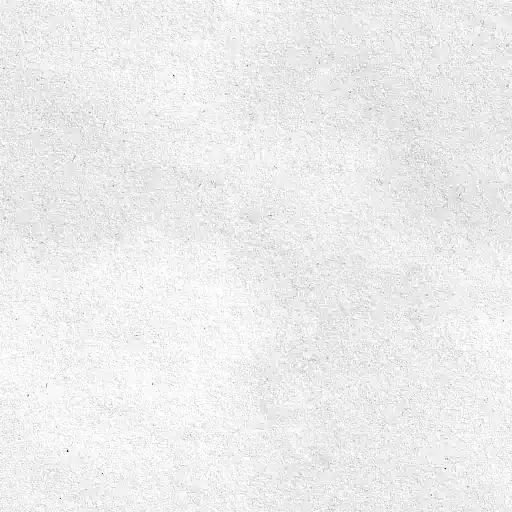
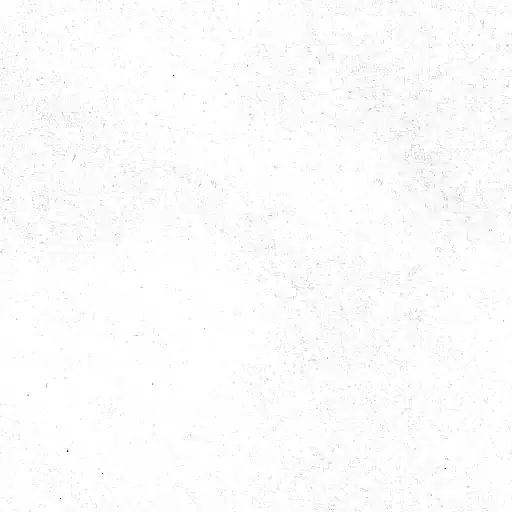
Some improvements and fixes.

diff --git a/styles.css b/styles.css
@@ -60,6 +60,7 @@
 
   /* --- TEXTURE --- */
   --texture-img: url("./images/paper.webp");
+  --texture-img-2: url("./images/paper2.webp");
   --texture-opacity: 1;
   --texture-size: 512px;
 
@@ -250,6 +251,8 @@ input[type="submit"]:hover {
   padding: 0 1rem;
   height: 100%;
   background-color: var(--color-dark-charcoal);
+  z-index: 6;
+  box-shadow: var(--box-shadow-default);
 }
 
 .header .logo {
@@ -464,6 +467,9 @@ input[type="submit"]:hover {
   background-color: var(--color-taupe);
   box-shadow: var(--box-shadow-default);
   z-index: 1;
+  min-height: 40em;
+  align-content: center;
+
 }
 
 .promo-banner {
@@ -474,6 +480,7 @@ input[type="submit"]:hover {
   box-shadow: var(--box-shadow-default);
 
   width: 95%;
+  margin-top: 2em;
 }
 
 .promo-banner__title {
@@ -645,6 +652,8 @@ input[type="submit"]:hover {
   background-attachment: fixed;
   color: var(--color-white);
   text-shadow: 0 0 2em rgba(255, 255, 255, 0.7);
+  box-shadow: var(--box-shadow-default);
+  z-index: 4;
 }
 
 .hero-wrapper {
@@ -676,9 +685,6 @@ input[type="submit"]:hover {
   background-color: var(--color-olive-green);
   box-shadow: var(--box-shadow-default);
   z-index: 3;
-  margin-top: -2em;
-  margin-bottom: -2em;
-  box-shadow: var(--box-shadow-default);
 }
 
 #about h2,
@@ -801,7 +807,7 @@ main img {
 }
 
 #collection {
-  min-height: 104svh;
+  min-height: 100svh;
   align-content: center;
   box-shadow: var(--box-shadow-default);
   z-index: 2;
@@ -915,13 +921,15 @@ footer {
 /* ==================================================================
    EFFECTS & USABILITY
    ================================================================== */
-.with-texture {
+.with-texture,
+.with-texture-2 {
   position: relative;
   isolation: unset;
   overflow: visible;
 }
 
-.with-texture::before {
+.with-texture::before,
+.with-texture-2::before {
   content: "";
   position: absolute;
   top: 0;
@@ -929,7 +937,7 @@ footer {
   transform: translateX(-50%);
   width: 100%;
   height: 100%;
-  background-image: var(--texture-img);
+
   background-repeat: repeat;
   background-size: var(--texture-size) var(--texture-size);
   mix-blend-mode: multiply;
@@ -938,8 +946,18 @@ footer {
   z-index: 0;
 }
 
+.with-texture::before {
+  background-image: var(--texture-img);
+}
+
+.with-texture-2::before {
+  background-image: var(--texture-img-2);
+}
+
 .with-texture>*,
-.with-texture .sisalto {
+.with-texture-2>*,
+.with-texture .sisalto,
+.with-texture-2 .sisalto {
   position: relative;
   z-index: 1;
 }
@@ -996,6 +1014,7 @@ footer {
   justify-content: space-between;
   gap: 2rem;
   margin-bottom: var(--section-padding-vertical);
+  margin-top: var(--section-padding-vertical);
 }
 
 .footer-column {
@@ -1154,9 +1173,23 @@ footer {
 #clients {
   background-color: var(--color-dark-charcoal);
   box-shadow: var(--box-shadow-default);
+  height: 100svh;
+  align-content: center;
+  z-index: -1;
 }
 
-#clients h2, #clients p {
-    color: white; 
-  
+#clients h2,
+#clients p {
+  color: white;
+
+}
+
+#contact {
+  background-color: var(--color-light-beige);
+  z-index: -2;
+  color: var(--color-dark-charcoal);
+}
+
+#contact h2 {
+  color: var(--color-dark-charcoal);
 }

diff --git a/index.html b/index.html
@@ -23,7 +23,7 @@
   </section>
 
   <!-- ===================== ABOUT / BRAND STORY ===================== -->
-  <section class="with-texture" id="about">
+  <section class="with-texture-2 cut-bottom" id="about">
     <h2>What is Nest &amp; Living?</h2>
     <p>
       Welcome to Nest &amp; Living, your premier destination for luxurious yet accessible bedroom furniture. Our
@@ -53,7 +53,7 @@
     <div class="with-texture" id="collection-content"></div>
   </section>
 
-  <section class="with-texture" id="promo">
+  <section class="with-texture-2" id="promo">
     <div class="promo-banner with-texture">
       <h2 class="promo-banner__title">NOW IN STORES</h2>
       <h3 class="promo-banner__subtitle with-texture">Special prices!*</h3>
@@ -102,7 +102,7 @@
 
 
   <!-- ===================== CLIENTS / TESTIMONIALS ===================== -->
-  <section class="with-texture" id="clients">
+  <section class="with-texture cut-bottom" id="clients">
     <h2>Clients</h2>
     <p>
       At Nest &amp; Living, our clients are at the heart of everything we do. We believe that quality bedroom furniture
@@ -114,7 +114,7 @@
   </section>
 
   <!-- ===================== CONTACT FORM ===================== -->
-  <section id="contact">
+  <section class="with-texture-2" id="contact">
     <h2>For further questions, leave a message:</h2>
     <form action="#" method="post">
       <label for="message">Write your message here</label><br />

diff --git a/header.html b/header.html
@@ -1,5 +1,6 @@
+
 <header class="header">
-  <div class="header-container with-texture">
+  <div class="header-container with-texture-2">
     <a href="index.html" class="logo">Nest &amp; Living</a>
 
     <button type="button" class="hamburger" aria-label="Toggle menu">

diff --git a/script.js b/script.js
@@ -543,6 +543,7 @@ function initFooterToiminnot() {
 }
 
 
+
 // ===== 7) Dynaaminen URL-hashin päivitys rullauksen mukaan =====
 function initDynamicHash() {
   const header = document.querySelector(".header");
